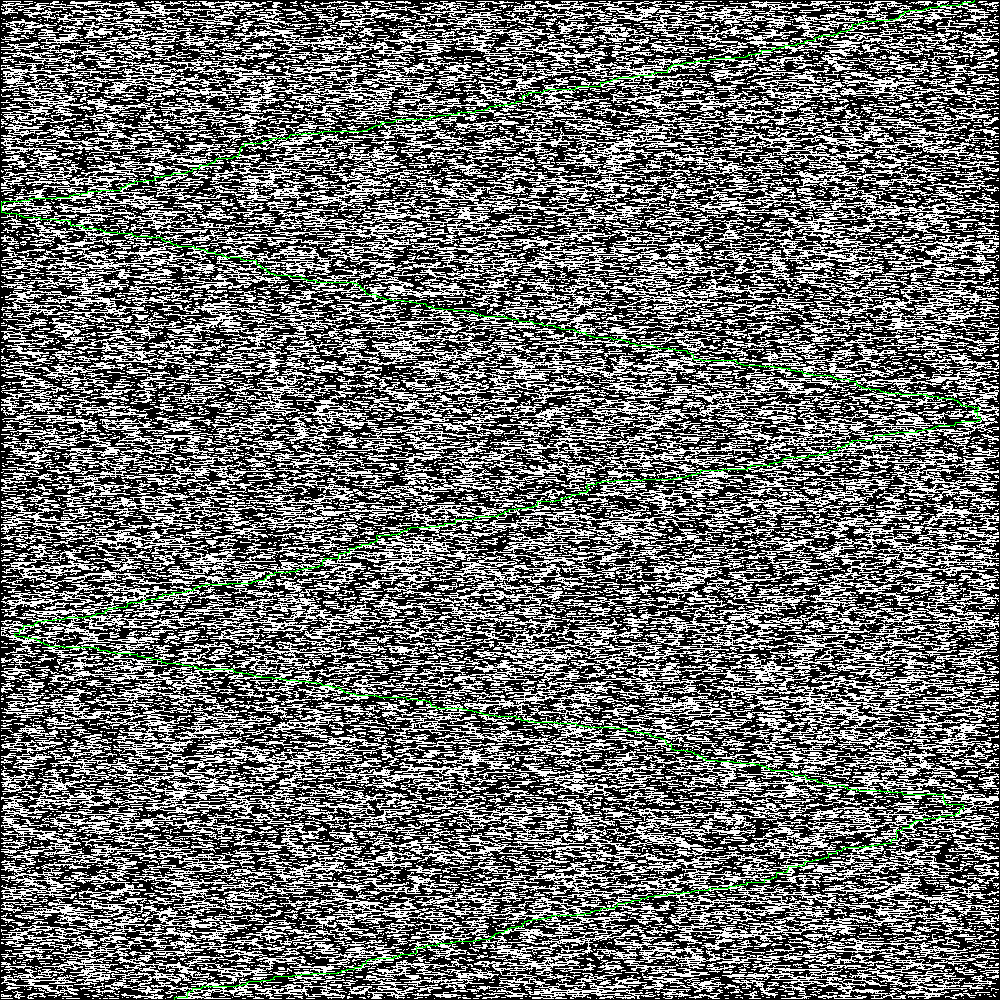
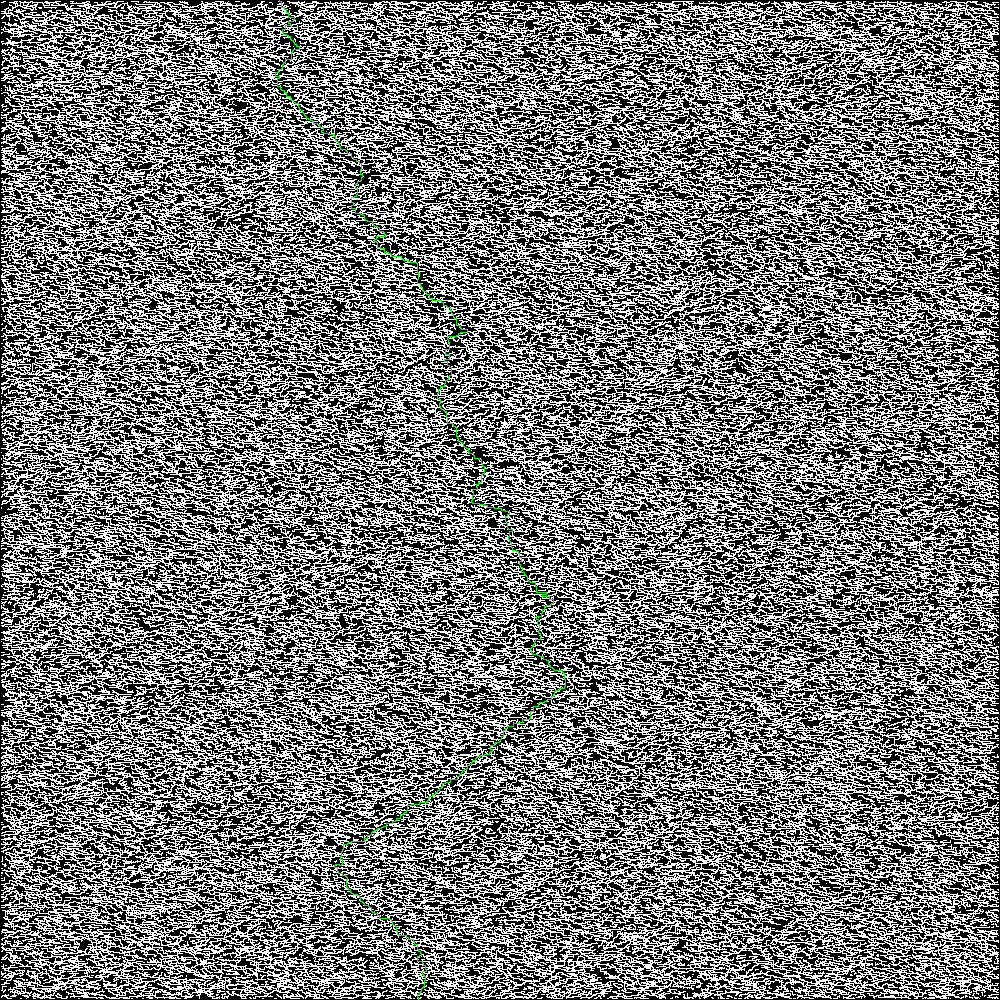
More random path generation, command line options for amount of noise in output, You can now choose an output name as well as a directory, progress bars

diff --git a/mazegenerator/generate.py b/mazegenerator/generate.py
@@ -28,7 +28,7 @@ from . import g
 
 import os
 import random
-import sys  # for progress bar
+import progress.bar  # Progress bars
 
 random.seed(os.urandom(200))
 
@@ -40,10 +40,16 @@ def init_maze(width, height):
 	:param height: The height of the maze
 	"""
 	g.maze = []
-	for x in range(width):
+
+	progress_bar = progress.bar.PixelBar(g.change_string_length("Initialising empty maze", 30), max=height)
+
+	for y in range(height):
+		progress_bar.next()
 		g.maze.append([])
-		for y in range(height):
+		for x in range(width):
 			g.maze[-1].append("#")
+
+	progress_bar.finish()
 
 
 def init_solution_path():
@@ -61,6 +67,8 @@ def init_solution_path():
 	mu.set_cell_value(current_cell, ".")
 
 	paths_done = False
+	# Currently no_reverse will always be True
+	# TODO: Implement the possibility of the path going up
 	no_reverse = True
 
 	if start_pos < len(g.maze[0]) / 2:
@@ -70,8 +78,17 @@ def init_solution_path():
 		h_prefer = "left"
 		not_h_prefer = "right"
 
+	rows = len(g.maze) - 2
+	last_row = 0
+
+	progress_bar = progress.bar.PixelBar(g.change_string_length("Generating random solution", 30), max=rows)
+
 	# Path from start
 	while not paths_done:
+		if current_cell[0] != last_row:
+			last_row = current_cell[0]
+			progress_bar.next()
+
 		if current_cell[0] == len(g.maze) - 2:  # If on second last row of maze
 			mu.set_cell_value((len(g.maze) - 1, current_cell[1]), "e")
 			break
@@ -86,10 +103,19 @@ def init_solution_path():
 
 		rand_direction = directions[random.randint(0, len(directions) - 1)]
 
-		if h_prefer in directions and random.random() < 0.70:
+		if h_prefer in directions and random.random() < 0.60:
 			rand_direction = h_prefer
 
+		if random.random() < 0.3:
+			rand_direction = "down"
+
+		elif random.random() < 0.01:
+			tmp = h_prefer
+			h_prefer = not_h_prefer
+			not_h_prefer = tmp
+
 		if rand_direction == "up":
+			print("UP")
 			no_reverse = True
 
 		next_cell = mu.get_cell_neighbours(current_cell, "#", rand_direction)[0]
@@ -97,19 +123,24 @@ def init_solution_path():
 		mu.set_cell_value(next_cell, ".")
 
 		if mu.next_to_edge(current_cell):
-			if random.random() < 0.20:
+			if random.random() < 0.60:
 				tmp = h_prefer
 				h_prefer = not_h_prefer
 				not_h_prefer = tmp
 
 			no_reverse = True
 
+
 		current_cell = next_cell
 
+	progress_bar.finish()
 
-def expand_rows():
+
+def expand_rows(noise_offset: float):
 	"""
 	'expands' rows by adding random paths on, above, and below the rows
+	:param noise_offset: An offset applied to some of the random float values generated
+	                        A negative offset reduces noise, a positive one increases noise
 	"""
 
 	def branch(coords, direction):
@@ -118,27 +149,32 @@ def expand_rows():
 		:param coords: (x,y) indicating a cell position
 		:param direction: 'left' or 'right'
 		"""
-		if direction == "left":
-			opposite_direction = "right"
-		else:
-			opposite_direction = "left"
 
 		while True:
-			random_int = random.randint(0, 5)
-			if random_int < 1:
+			rand_float = random.random() + noise_offset
+			if rand_float < 0.05:
 				break
 
 			neighbour_directions = mu.get_cell_neighbour_direction_names(coords, empty_cell="#")
 
 			if direction in neighbour_directions:
-				next_coords = mu.get_cell_neighbours(coords, "#", direction)[0]
+				final_direction = direction
+				if 0.05 < rand_float < 0.30+ noise_offset:
+					final_direction = "down"
+
+				try:
+					next_coords = mu.get_cell_neighbours(coords, "#", final_direction)[0]
+				except IndexError:
+					break
+
 				mu.set_cell_value(next_coords, ".")
 				coords = next_coords
 			else:
-				# mu.print_maze()
 				break
 
+	progress_bar = progress.bar.PixelBar(g.change_string_length("Adding noise", 30), max=len(g.maze))
 	for row_index, row in enumerate(g.maze):
+		progress_bar.next()
 		if row_index in (0, len(g.maze) - 1):
 			continue
 
@@ -159,15 +195,22 @@ def expand_rows():
 						branch(cell_coords, "left")
 					else:
 						branch(cell_coords, "right")
+	progress_bar.finish()
 
 
-def generate(width, height):
+def generate(width: int, height: int, noise_setting: str):
 	"""
 	Main function that creates the maze.
 	:param width: Width of the matrix
 	:param height: Height of the matrix
+	:param noise_setting: Either "default", "more", "less", or "none"
 	"""
 	init_maze(width, height)
 	init_solution_path()
-
-	expand_rows()
+	if noise_setting != "none":
+		noise_offset = 0
+		if noise_setting == "less":
+			noise_offset = -0.15
+		elif noise_setting == "more":
+			noise_offset = 0.15
+		expand_rows(noise_offset)

diff --git a/mazegenerator/__main__.py b/mazegenerator/__main__.py
@@ -43,9 +43,13 @@ def cmd_info(mode):  # Display information and exit the program with exit code 0
 
 
 def main():
-	output_dir = ""  # The directory for the picture to be outputted to
-	width: int= 0
-	height: int= 0
+	output_path = ""  # The path for the picture to be outputted to
+	width: int = 0
+	height: int = 0
+
+	option_no_noise = False
+	option_more_paths = False
+	option_more_walls = False
 
 	cmd_args = sys.argv[1:]  # List storing all command line arguments passed to the program
 	if len(cmd_args) == 0:  # if no arguments were given
@@ -67,7 +71,7 @@ def main():
 
 		try:
 			if arg == "-o" or arg == "--output":
-				output_dir = cmd_args[index + 1]  # the argument after '-o' is the output path
+				output_path = cmd_args[index + 1]  # the argument after '-o' is the output path
 				skip_next_arg = True
 
 			elif arg == "-x" or arg == "--width":
@@ -75,7 +79,7 @@ def main():
 				skip_next_arg = True
 
 			elif arg == "-y" or arg == "--height":
-				height = int(cmd_args[index + 1])  # the argument after '-o' is the output path
+				height = int(cmd_args[index + 1])
 				skip_next_arg = True
 
 			elif arg == "-xy" or arg == "--xy":
@@ -83,18 +87,38 @@ def main():
 				width = int(cmd_args[index + 1])
 				skip_next_arg = True
 
+			elif arg == "--no-noise":
+				option_no_noise = True
+
+			elif arg == "--more-walls":
+				option_more_walls = True
+
+			elif arg == "--more-paths":
+				option_more_paths = True
+
 			else:
 				cmd_error(f"Option '{arg}' not recognised.")
 
-		except IndexError:  # If no parameter is passed to the argument
+		except IndexError:  # If no parameter is passed when an arg expects it
 			cmd_error(f"Option '{arg}' requires an parameter.")
 
-	if not output_dir:
-		output_dir = str(Path.cwd())
-		print(f"No output directory supplied. Using default directory: '{output_dir}'")
+	output_dir = str(Path.cwd())
+	output_name = "maze"
+	if output_path:
+		if os.path.isdir(output_path):
+			output_dir = output_path
+		else:
+			path_lst = output_path.split("/")
+			if path_lst[-1] == "":
+				cmd_error("Invalid directory name.")
+			else:
+				output_name = path_lst[-1]
+				output_dir = output_path[0:-len(output_name)]
+				if ".jpg" in output_name:
+					output_name = output_name.split(".jpg")[0]
+				elif ".jpeg" in output_name:
+					output_name = output_name.split(".jpeg")[0]
 
-	if not os.path.isdir(output_dir):
-		cmd_error(f"Output directory '{output_dir}' doesn't exist or is not a directory")
 
 	if not width or not height:
 		cmd_error(f"Please supply a height and a width! Use -x and -y")
@@ -102,7 +126,16 @@ def main():
 	if width < 20 or height < 20:
 		cmd_error("Both width and height must be at least 20.")
 
-	generate.generate(width, height)
+	noise_setting = "default"
 
-	create_output_image.create(g.maze, output_dir)
+	if option_no_noise:
+		noise_setting = "none"
+	elif option_more_paths:
+		noise_setting = "more"
+	elif option_more_walls:
+		noise_setting = "less"
+
+	generate.generate(width, height, noise_setting)
+
+	create_output_image.create(g.maze, output_dir, output_name)
 	exit(0)

diff --git a/mazegenerator/create_output_image.py b/mazegenerator/create_output_image.py
@@ -7,12 +7,13 @@ from PIL import Image  # Pillow >=6.0
 from pathlib import Path  # OS agnostic filesystem paths
 
 
-def create(matrix, output_dir):
+def create(matrix: list, output_dir: str, output_name: str):
 	"""
 	Void function that marks the solution path into the image with green and saves the image.
 
 	:param matrix: A matrix generated by generate.py (see generate.__doc__).
 	:param output_dir: String with User-supplied path to a directory where the image will be saved.
+	:param output_name: A name for the image file
 	"""
 	# open the image that was inputted
 	output_image = Image.new("RGB", [len(matrix[0]), len(matrix)], (255, 255, 255))
@@ -28,8 +29,8 @@ def create(matrix, output_dir):
 
 			output_image.putpixel((x, y), color)
 
-	out_path = Path(f"{output_dir}/maze.jpg")  # Where the image will be saved to
+	out_path = Path(f"{output_dir}/{output_name}.jpg")  # Where the image will be saved to
 
-	output_image.save(out_path, subsampling=0, quality=100)  # Save the image with no aliasing or down-sampling
+	output_image.save(out_path, subsampling=0, quality=100)  # Save the image with no compression or sub-sampling
 
 	print(f"Maze was saved at {out_path}")  # Make sure the user knows where the image was saved

diff --git a/mazegenerator/strings.py b/mazegenerator/strings.py
@@ -13,12 +13,16 @@ Valid Commands
 -y, --height  -  The height of the maze. (required)
 --xy          -  The height and width of a square maze.
 
--o, --output  -  Output directory.
+--no-noise    -  Render a solution path without any noise
+--more-paths  -  Generate more paths
+--more-walls  -  Generate more walls
+
+-o, --output  -  Output filepath.
 
 Example Usages 
 ---------------
-mazegenerator -x 30 -y 30 -o path/to/dir/
-mazegenerator -xy 60
+mazegenerator -x 300 -y 2000 -o path/to/dir/mymaze.jpg
+mazegenerator --xy 600
 
 Contact Info
 ---------------

diff --git a/mazegenerator/mazeutils.py b/mazegenerator/mazeutils.py
@@ -3,7 +3,6 @@
 Some basic utilites for manipulating and displaying the variable g.maze.
 """
 import random
-
 from . import g
 
 maze = None
@@ -16,7 +15,6 @@ def print_maze():
 	for i in g.maze:
 		print(i)
 	print("\n")
-
 
 
 def get_cell_value(coords: tuple):

diff --git a/mazegenerator/g.py b/mazegenerator/g.py
@@ -1,2 +1,9 @@
 maze = []
 
+
+def change_string_length(string, length):
+	"""
+	Append spaces to a string until it reaches 'length'
+	"""
+	diff = length - len(string)
+	return string + (" " * diff)

diff --git a/setup.py b/setup.py
@@ -34,5 +34,5 @@ setup(
 
 	python_requires=">=3.5",
 
-	install_requires=["Pillow>=6.0"]
+	install_requires=["Pillow>=6.0", "progress>=1.5"]
 )
